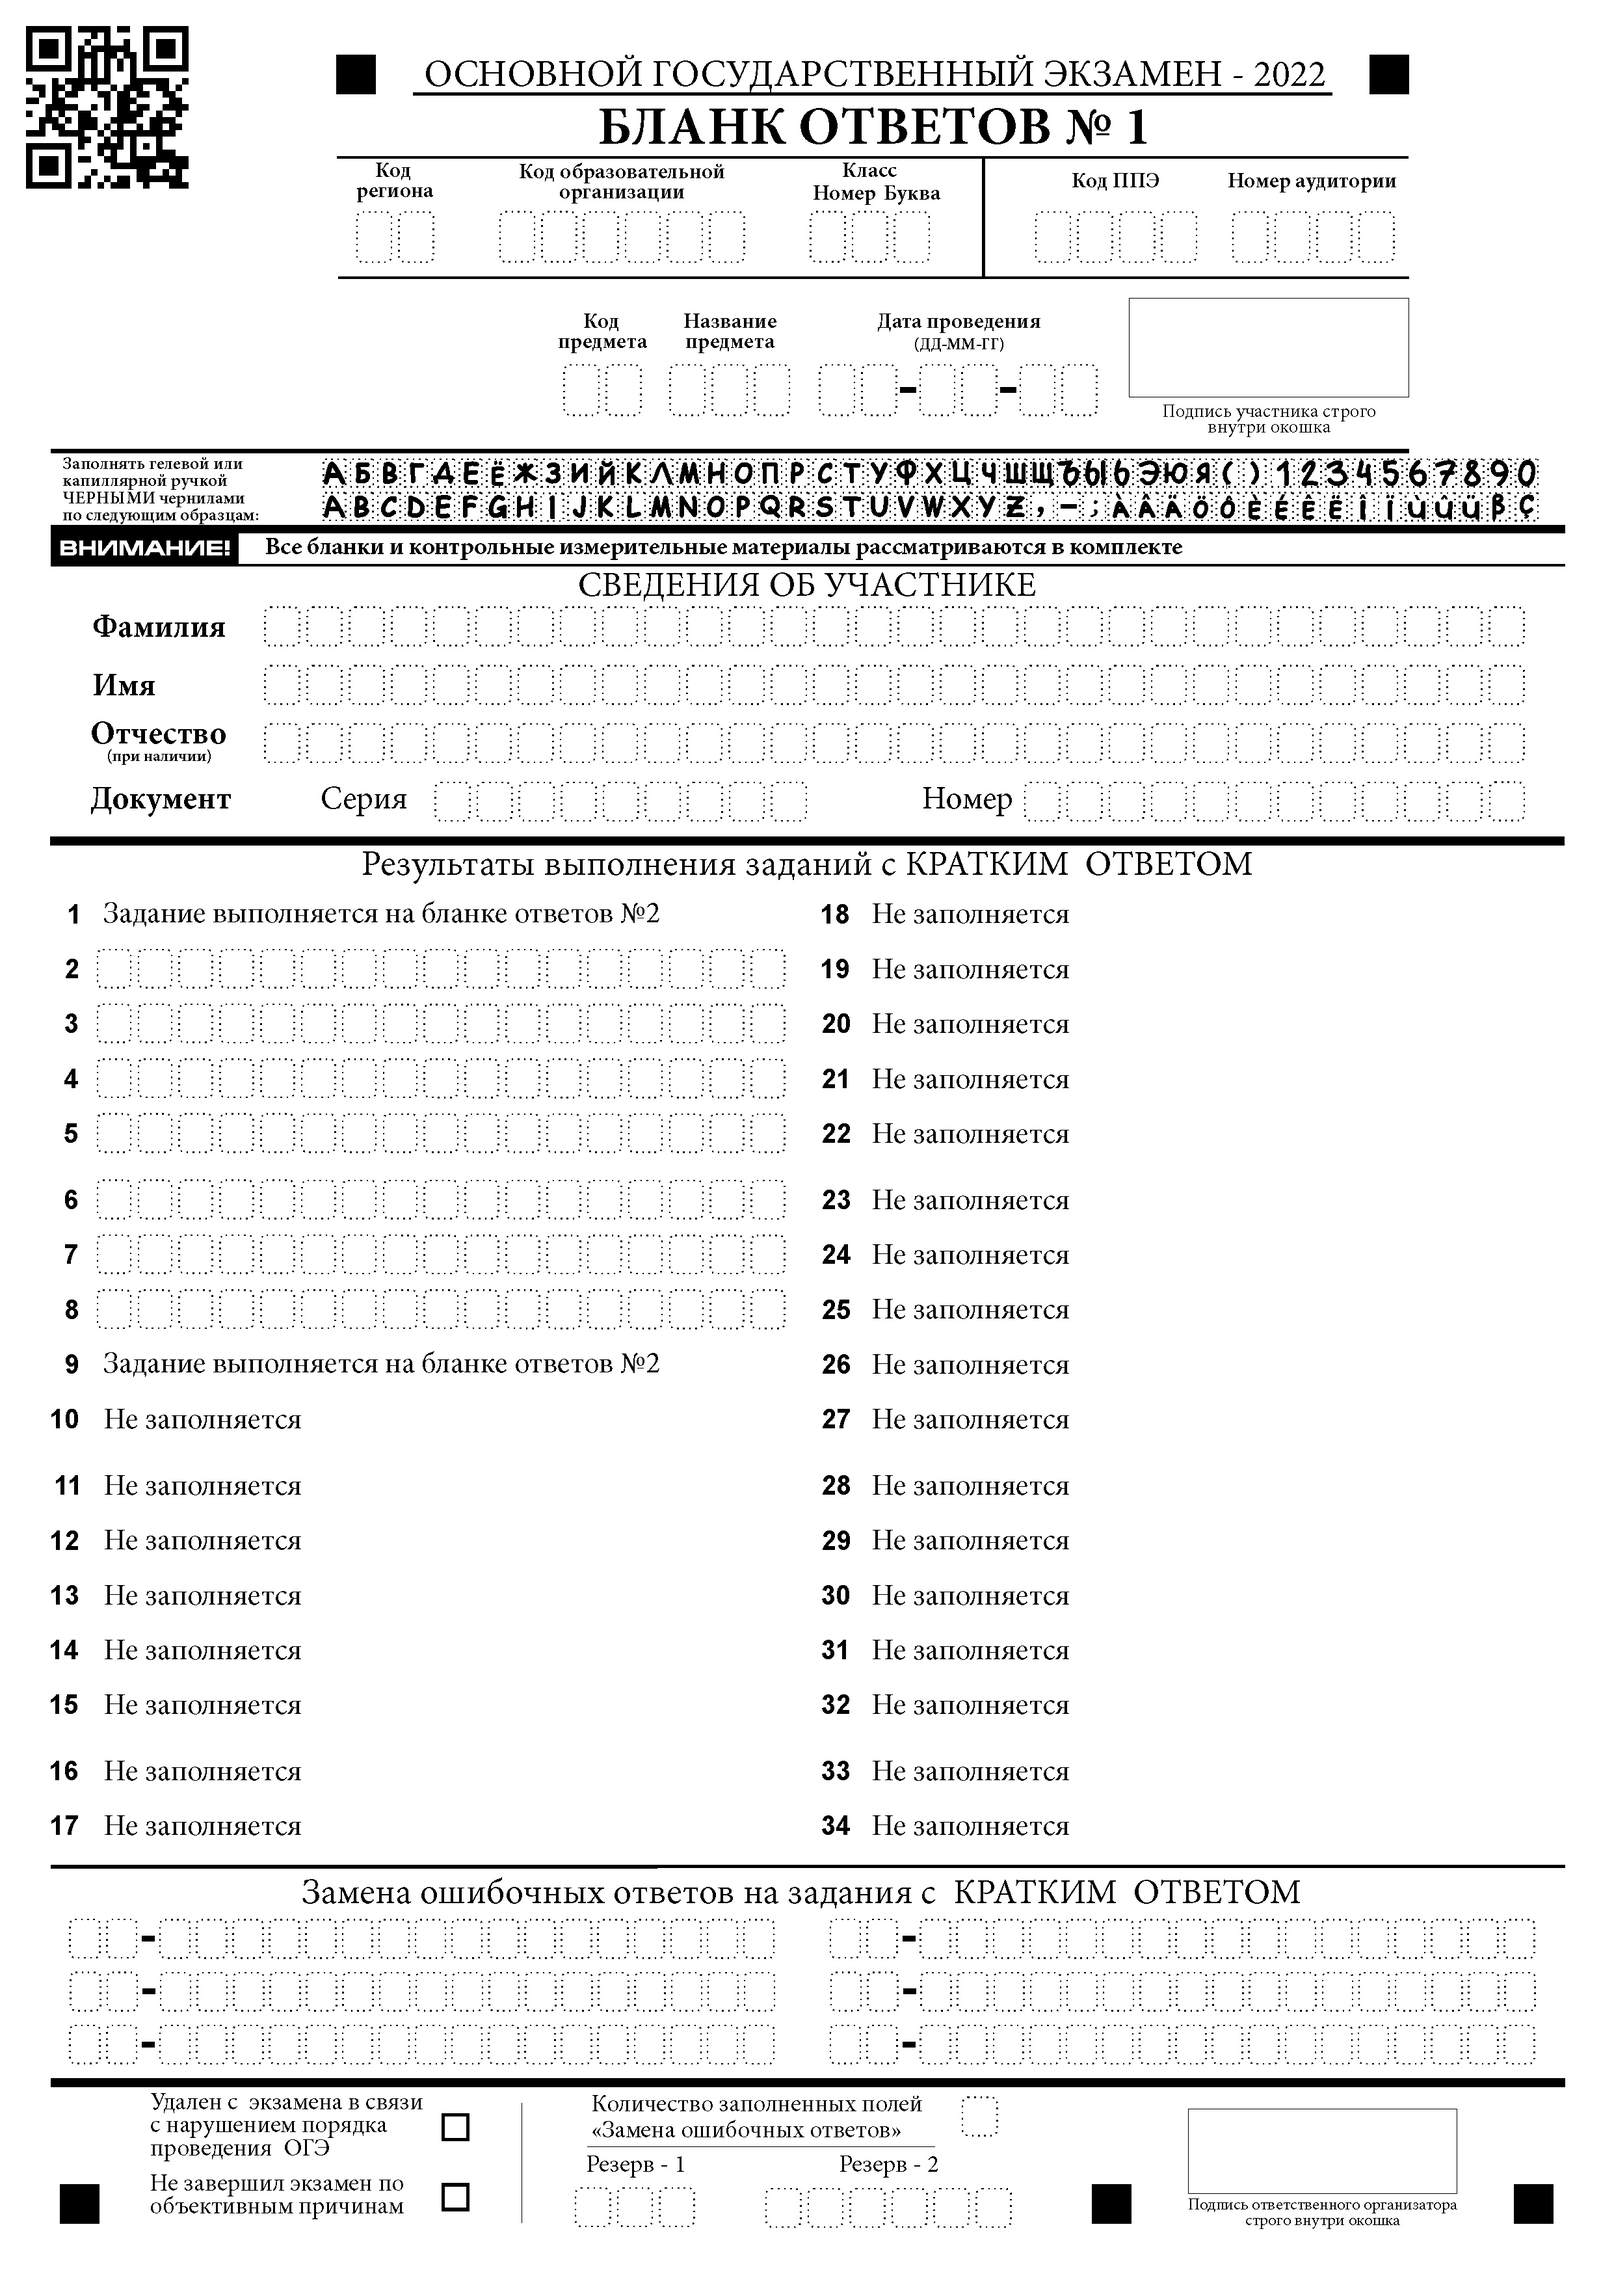
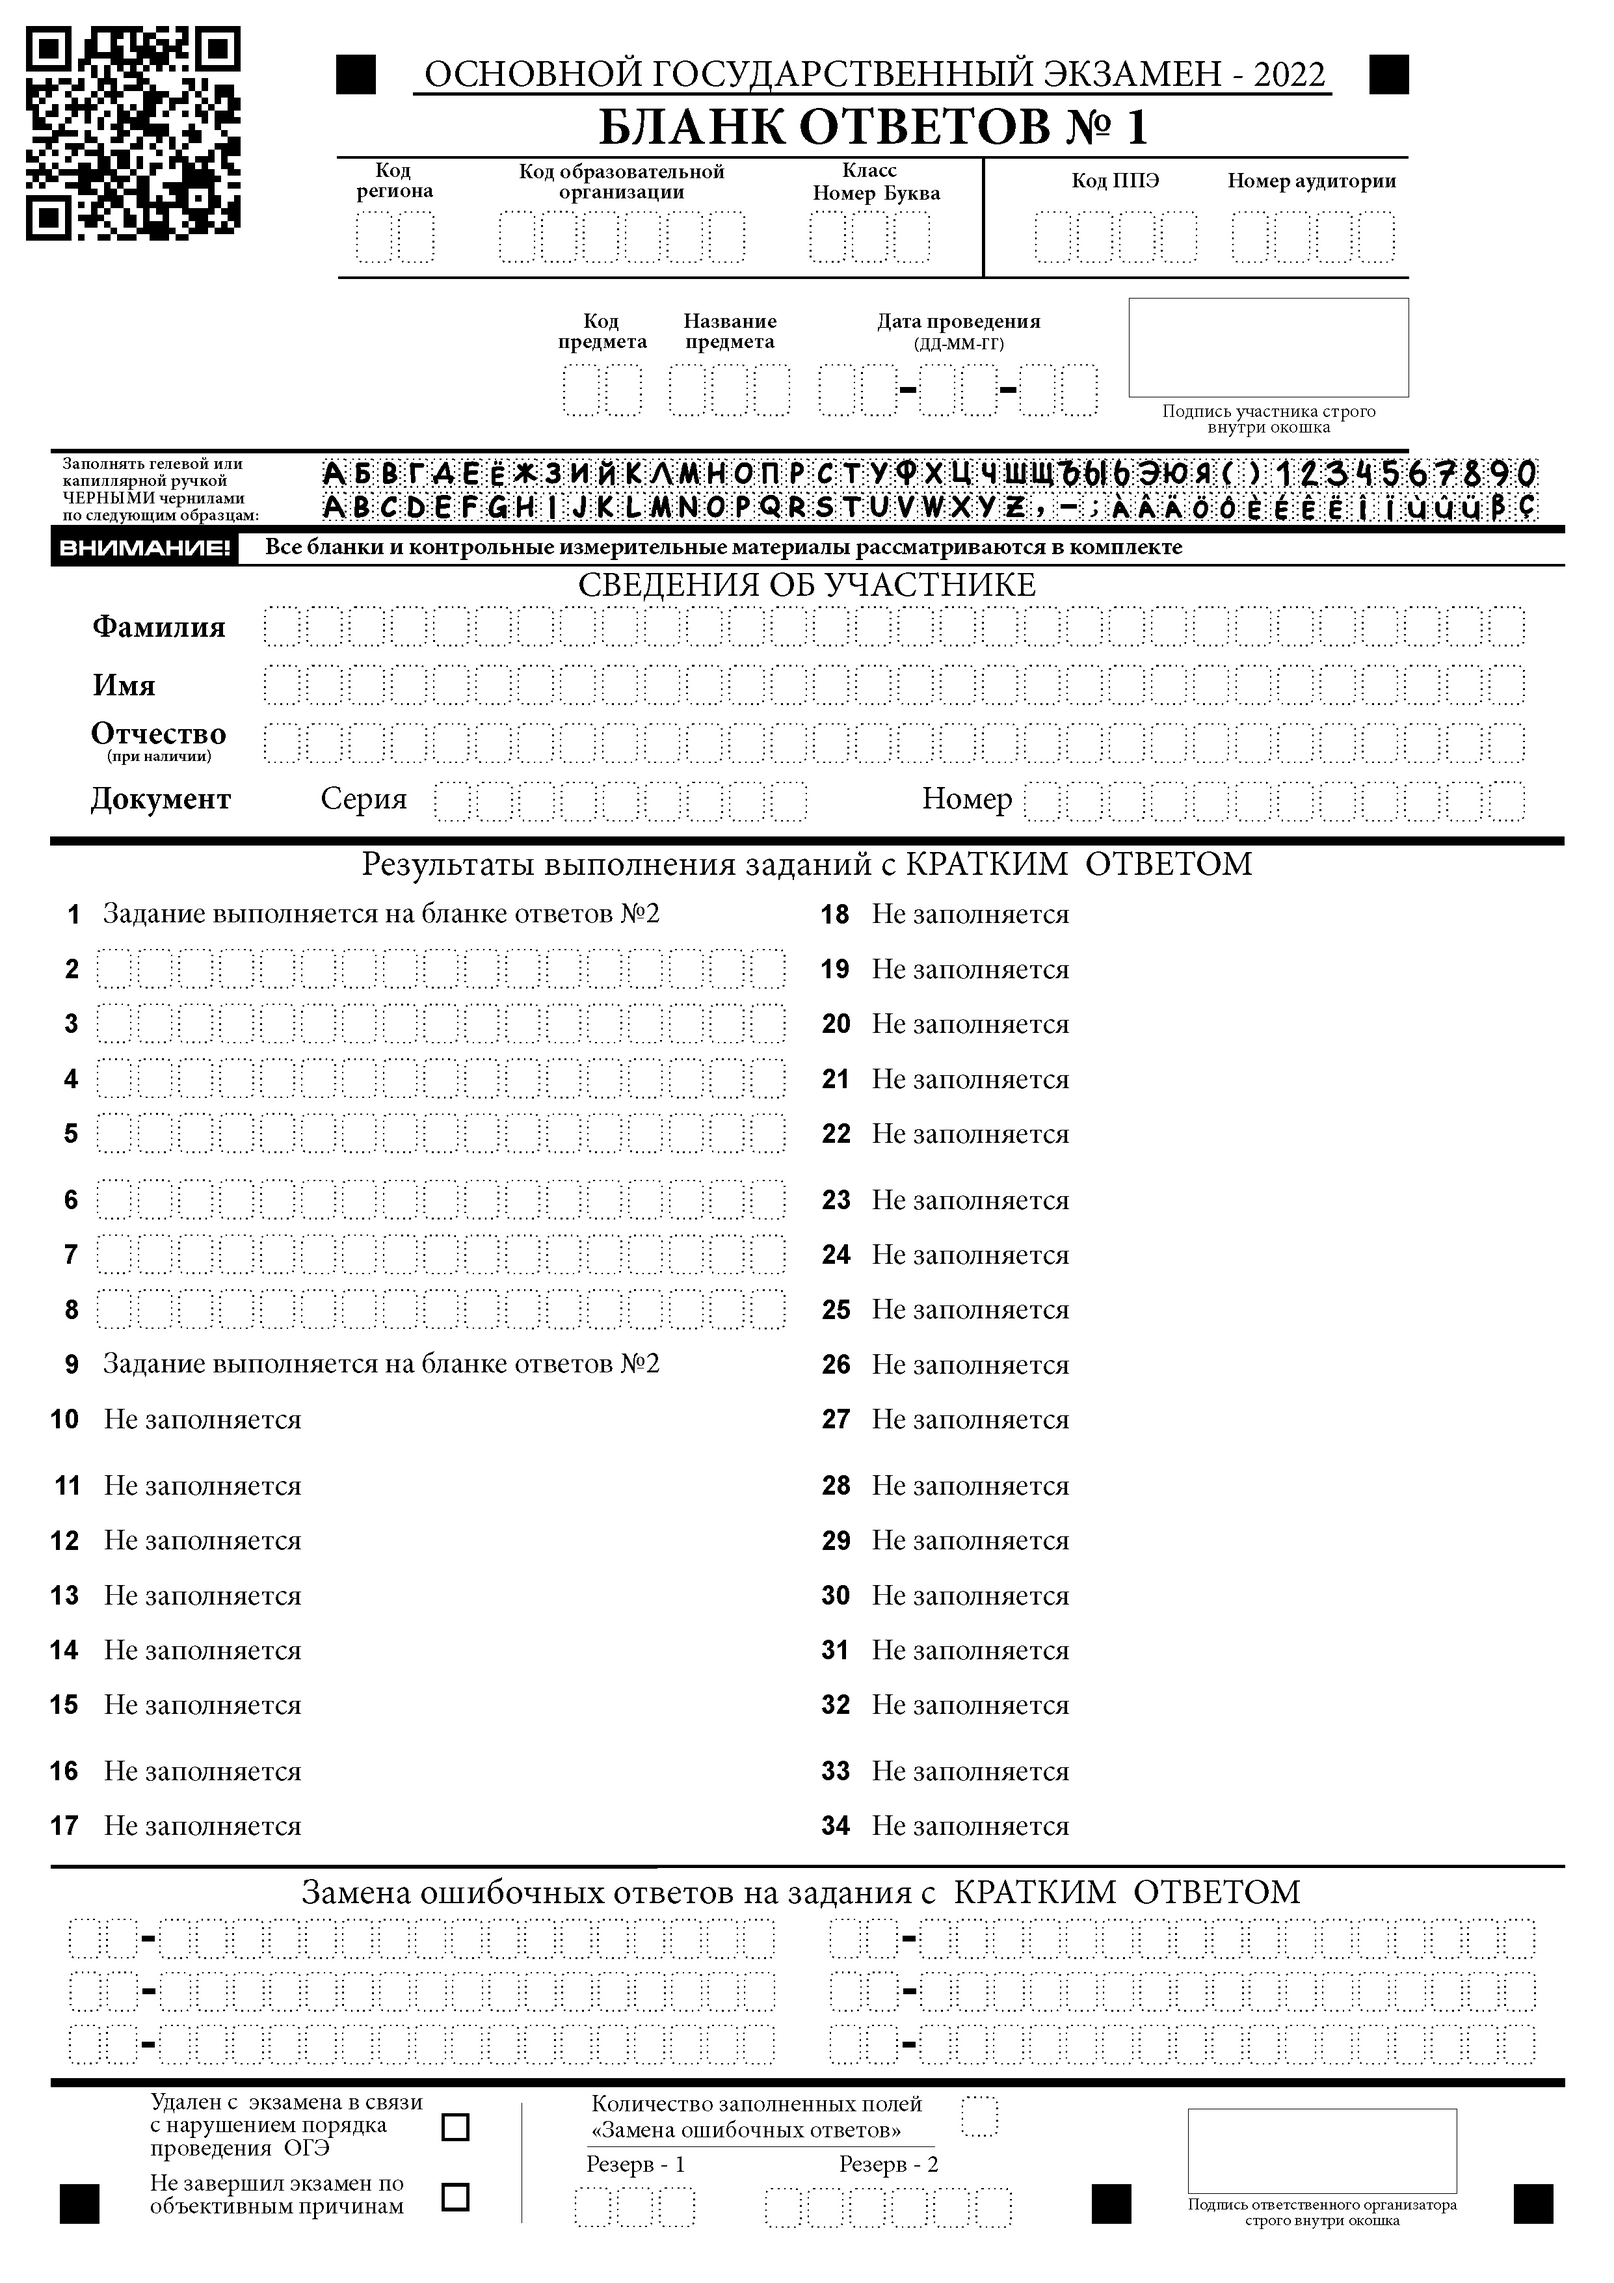
insert classess

Changed region(s): [[0.0, 0.0, 0.1551, 0.1242]]

diff --git a/csv_parser.py b/csv_parser.py
@@ -1,56 +1,53 @@
 import csv
 # https://pythonworld.ru/moduli/modul-csv.html
 
-def reader_row(results):
-    QR_BO1_BR = results[0]
-    QR_BO2_list1 = results[1]
-    QR_BO2_list2 = results[2]
-    QR_DBO = results[3]
-    code_region = results[4]
-    code_subject = results[5]
-    name_of_subject = results[6]
-    data_of_exam = results[7]
-    receiver = results[8]
-    name_of_unit = results[9]
-    Number_of_BO1 = results[10]
-    Number_of_BO2_list1 = results[11]
-    Number_of_BO2_list2 = results[12]
-    Number_KIM = results[13]
-    Number_DBO = results[14]
-    Number_variant = results[15]
-    Name_file_KIM = results[16]
 
-    # print(f"QR БО1/БР = {QR_BO1_BR}")
-    # print(f"QR БО2 лист1 = {QR_BO2_list1}")
-    # print(f"QR ДБО/QR ДБО = пустой {QR_DBO}")
-    # print(f"Код региона = {code_region}")
-    # print(f"Код предмета = {code_subject}")
-    # print(f"Название предмета = {name_of_subject}")
-    # print(f"Дата экзамена = {data_of_exam}")
-    # print(f"Получатель = {receiver}")
-    # print(f"Имя комплекта = {name_of_unit}")
-    # print(f"Номер БО1/БР = {Number_of_BO1}")
-    # print(f"Номер БО2 лист1 = {Number_of_BO2_list1}")
-    # print(f"Номер БО2 лист2 = {Number_of_BO2_list2}")
-    # print(f"Номер КИМ = {Number_KIM}")
-    # print(f"Номер ДБО/Номер ДБО пустой = {Number_DBO}")
-    # print(f"Номер варианта = {Number_variant}")
-    # print(f"Имя файла КИМ = {Name_file_KIM}")
-    return(QR_BO1_BR)
+class Csv_parser():
+    """Класс прарсера из csv"""
+    def __init__(self, name_file):
+        """Инициализирует атрибуты класса."""
+        self.name_file = name_file
 
-# import csv
-# with open('1.csv', 'r', newline='') as csvfile:
-#      spamreader = csv.reader(csvfile, delimiter=';', quotechar='|')
-#      for row in spamreader:
-#          print(', '.join(row))
+    def reader_row(self):
+        csv_file = open(self.name_file)
+        csv_reader = csv.reader(csv_file, delimiter = ";")
+        csv_data = list(csv_reader)
+        results = csv_data[1] # получаем доступ к первой строке
+        # print (results)
+        QR_BO1_BR = results[0]
+        QR_BO2_list1 = results[1]
+        QR_BO2_list2 = results[2]
+        QR_DBO = results[3]
+        code_region = results[4]
+        code_subject = results[5]
+        name_of_subject = results[6]
+        data_of_exam = results[7]
+        receiver = results[8]
+        name_of_unit = results[9]
+        Number_of_BO1 = results[10]
+        Number_of_BO2_list1 = results[11]
+        Number_of_BO2_list2 = results[12]
+        Number_KIM = results[13]
+        Number_DBO = results[14]
+        Number_variant = results[15]
+        Name_file_KIM = results[16]
 
-csv_file = open("1.csv")
-csv_reader = csv.reader(csv_file, delimiter = ";")
-csv_data = list(csv_reader)
-# print (csv_data)
+        # print(f"QR БО1/БР = {QR_BO1_BR}")
+        # print(f"QR БО2 лист1 = {QR_BO2_list1}")
+        # print(f"QR ДБО/QR ДБО = пустой {QR_DBO}")
+        # print(f"Код региона = {code_region}")
+        # print(f"Код предмета = {code_subject}")
+        # print(f"Название предмета = {name_of_subject}")
+        # print(f"Дата экзамена = {data_of_exam}")
+        # print(f"Получатель = {receiver}")
+        # print(f"Имя комплекта = {name_of_unit}")
+        # print(f"Номер БО1/БР = {Number_of_BO1}")
+        # print(f"Номер БО2 лист1 = {Number_of_BO2_list1}")
+        # print(f"Номер БО2 лист2 = {Number_of_BO2_list2}")
+        # print(f"Номер КИМ = {Number_KIM}")
+        # print(f"Номер ДБО/Номер ДБО пустой = {Number_DBO}")
+        # print(f"Номер варианта = {Number_variant}")
+        # print(f"Имя файла КИМ = {Name_file_KIM}")
+        return(QR_BO1_BR)
 
-# Считывание данных из CSV файла
-#print (f"{csv_data[0]}")
-list_data = csv_data[1] # получаем доступ к первой строке
-print (reader_row(list_data))
-
+        

diff --git a/qr_generator.py b/qr_generator.py
@@ -1,13 +1,17 @@
 import qrcode
 import csv_parser
-# пример данных
-data = "csv_parser.reader_row"
-data = csv_parser.reader_row
-print(f"QR БО1/БР = {data}")
 
-# имя конечного файла
-filename = "qr.png"
-# генерируем qr-код
-img = qrcode.make(data)
-# сохраняем img в файл
-img.save(filename)
+class QR():
+    def __init__(self, file_csv, qr_name):
+        """Инициализирует атрибуты описания автомобиля."""
+        self.file_csv = file_csv # Имя файла csv
+        self.qr_name = qr_name # Имя сохраняемого файла с qr кодом
+
+    def get_qr1(self):
+        """Получает строку с кодом из файла csv"""
+        Parser = csv_parser.Csv_parser(self.file_csv) # Получаем данные из csv
+        data = Parser.reader_row() # Вызываем парсер метод
+        img = qrcode.make(data) # Солздаем штрих код
+        img.save(self.qr_name) # Сохраняем штрих код
+    
+ 

diff --git a/main.py b/main.py
@@ -1,17 +1,15 @@
 from PIL import Image
 import pathlib
 from pathlib import Path
+from qr_generator import QR
+from insert_image import Insert_Image
 # пути https://webtort.ru/%D0%BA%D0%B0%D0%BA-%D0%B7%D0%B0%D0%B4%D0%B0%D1%82%D1%8C-%D0%BF%D1%83%D1%82%D1%8C-%D0%BA-%D1%84%D0%B0%D0%B9%D0%BB%D1%83-%D0%B2-python/
 
+# Создаем Qr
+qrimage=QR("1.csv","image_test.png")
+qrimage.get_qr1()
 
+# Вставляем QR в нужное изображение
+insert_image = Insert_Image('oge.TIFF', "image_test.png")
+insert_image.insert_qr()
 
-image = Image.open('oge.TIFF')
-# image.show()
-im1 = Image.open('oge.TIFF')
-im2 = Image.open('qr.png')
- 
-im1.paste(im2)
-im1.save('result_blank.jpg', quality=95)
- 
-im1.close()
-im2.close()

diff --git a/insert_image.py b/insert_image.py
@@ -1,0 +1,18 @@
+from PIL import Image
+import pathlib
+from pathlib import Path
+
+class Insert_Image():
+    def __init__(self, blank1, qr1):
+        """Инициализирует атрибуты описания автомобиля."""
+        self.blank1 = blank1
+        self.qr1 = qr1
+    
+    def insert_qr (self):
+        image = Image.open(self.blank1)
+        im1 = Image.open(self.blank1)
+        im2 = Image.open(self.qr1)
+        im1.paste(im2)
+        im1.save('result_blank.jpg', quality=95)
+        im1.close()
+        im2.close()
